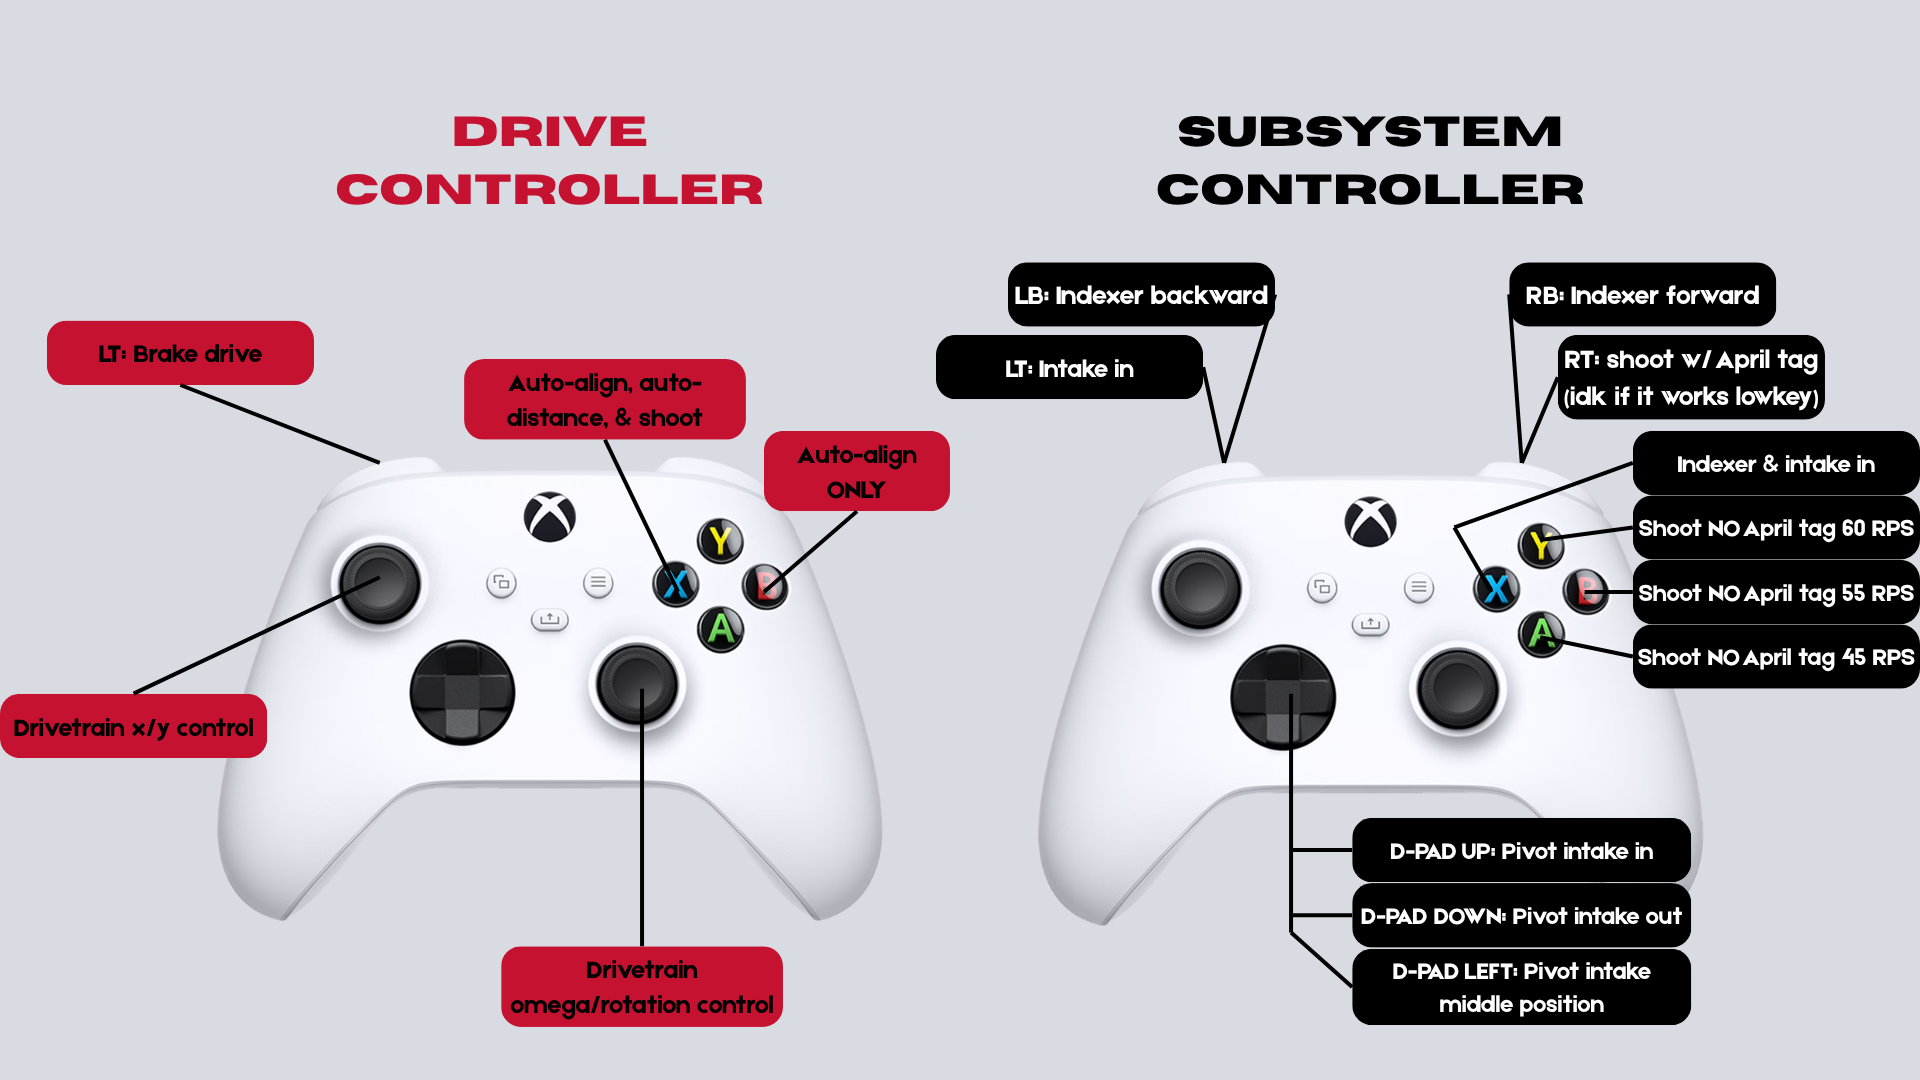
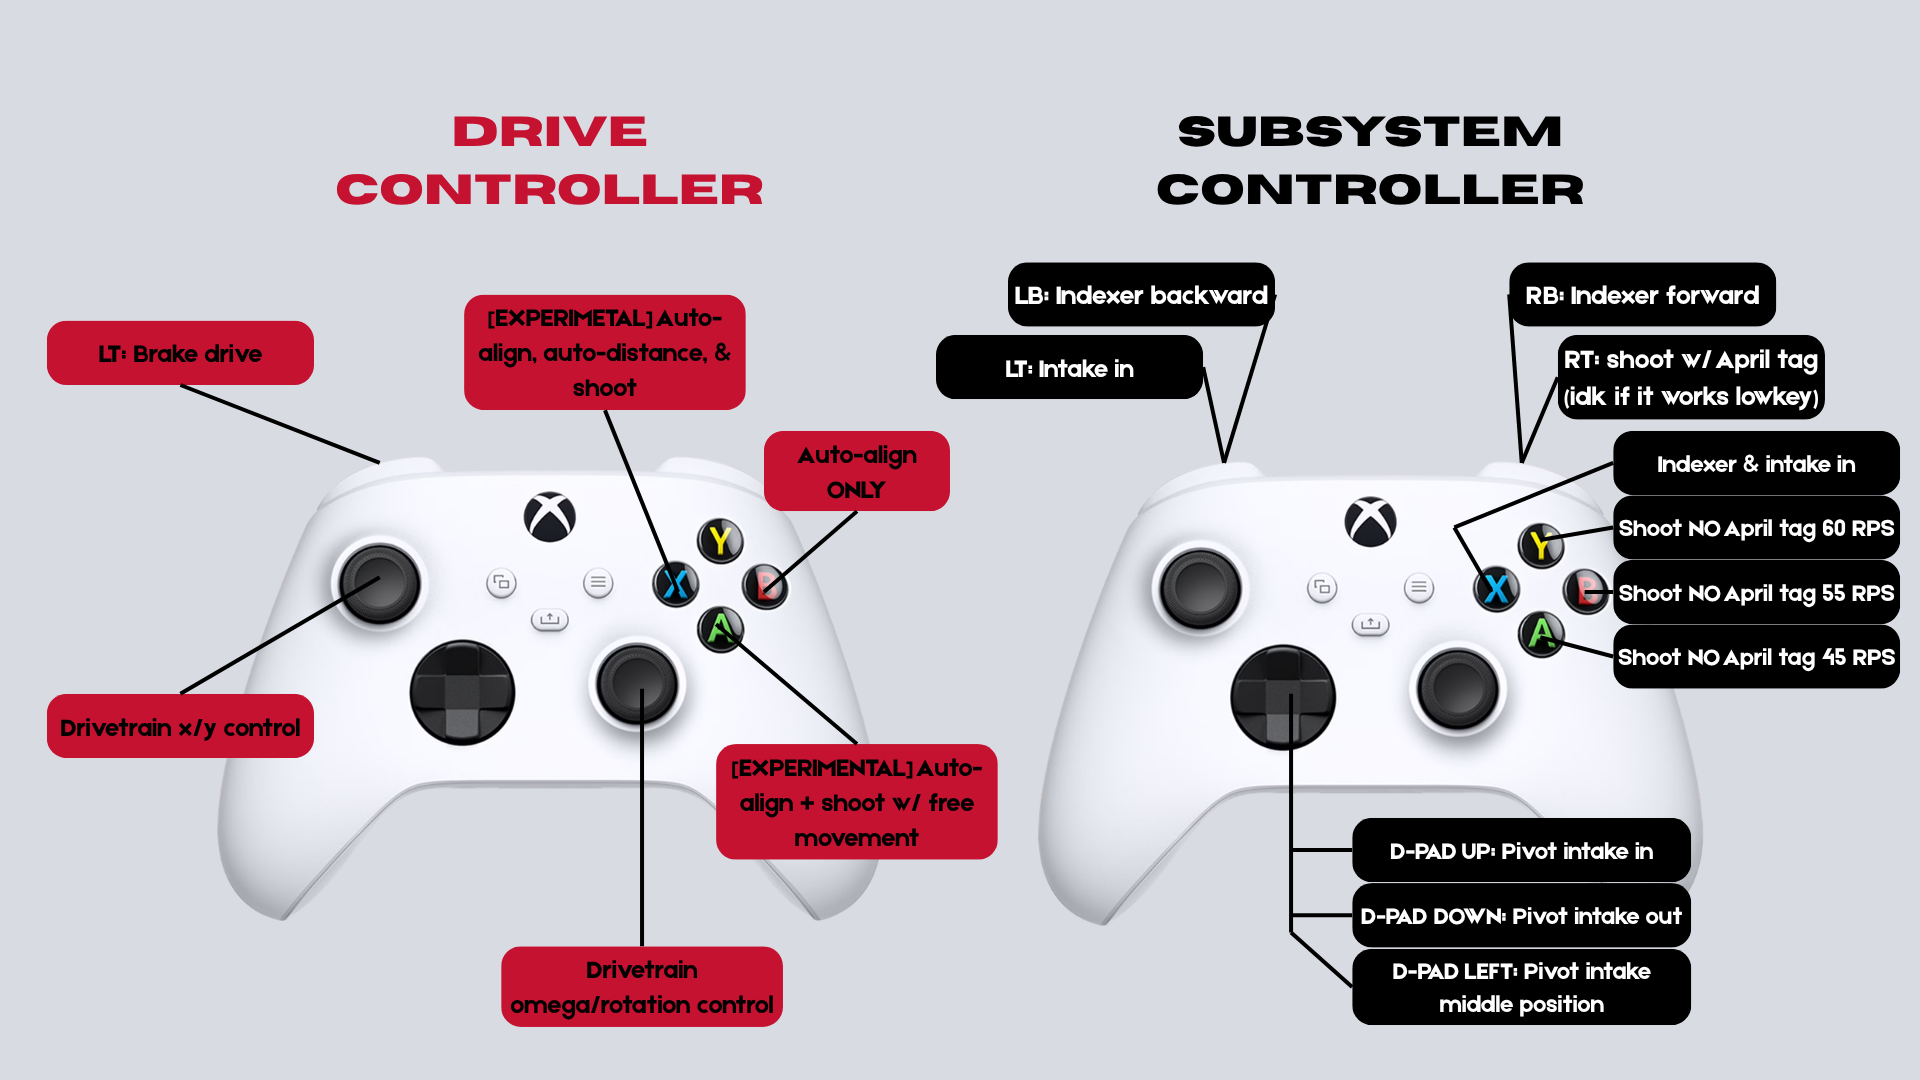
Updated LEDs and controller bindings

diff --git a/REBUILT-2026/src/main/java/frc/robot/subsystems/SwerveDrivebase.java b/REBUILT-2026/src/main/java/frc/robot/subsystems/SwerveDrivebase.java
@@ -5,6 +5,7 @@
 package frc.robot.subsystems;
 
 import java.util.function.Supplier;
+import java.util.spi.CalendarNameProvider;
 
 import com.pathplanner.lib.auto.AutoBuilder;
 import com.pathplanner.lib.commands.PathPlannerAuto;
@@ -465,7 +466,7 @@ public class SwerveDrivebase extends SubsystemBase {
   //#region
 
   /** Auto-align to a certain point on the field using odometry */
-  public Command odometryAutoAlign(Translation2d m_targetPoint, Supplier<Double> i_vxInput, Supplier<Double> i_vyInput, boolean stop) {
+  public Command odometryAutoAlign(Translation2d m_targetPoint, Supplier<Double> i_vxInput, Supplier<Double> i_vyInput) {
     return new FunctionalCommand(
       () -> {
         // compacted math of below to set the current position and target before command runs
@@ -490,14 +491,179 @@ public class SwerveDrivebase extends SubsystemBase {
         // The only time it shouldn't is when the robot is too close to the target and break the math
         double distance = m_targetPoint.getDistance(fieldLocation);
         this.drive(
-          -i_vxInput.get() * SwerveConstants.kMaxMetersPerSecond * ((stop) ? 0.0 : 1.0), // if the robot needs to stop at the end, ignore joystick input
-          -i_vyInput.get() * SwerveConstants.kMaxMetersPerSecond * ((stop) ? 0.0 : 1.0),
+          -i_vxInput.get() * SwerveConstants.kMaxMetersPerSecond, 
+          -i_vyInput.get() * SwerveConstants.kMaxMetersPerSecond,
           (distance > 0.5) ? pidOutput : 0.0,
           true
         );
       }, 
       (interrupted) -> {}, // no need to stop the robot if the command ends prematurely because the default command covers it 
-      () -> m_autoAlignPID.atGoal() && stop, 
+      () -> false, 
+      this
+    );
+  }
+
+  /** Overload that ignores joystick input and will terminate at the end for the next command */
+  public Command odometryAutoAlign(Translation2d m_targetPoint) {
+    return new FunctionalCommand(
+      () -> {
+        // compacted math of below to set the current position and target before command runs
+        Pose2d position = getPose();
+        Rotation2d targetHeading = m_targetPoint.minus(position.getTranslation()).getAngle();
+        m_autoAlignPID.reset(position.getRotation().getRadians());
+        m_autoAlignPID.setGoal(targetHeading.getRadians()); // this does not need to be run constantly when stop is false (tested)
+      },
+      () -> {
+        // First part - calculate dynamic heading
+        Pose2d position = getPose();
+        Translation2d fieldLocation = position.getTranslation();
+        Translation2d vectorBetweenPoints = m_targetPoint.minus(fieldLocation);
+        Rotation2d dynamicHeading = vectorBetweenPoints.getAngle();
+
+        // Second part - convert dynamic heading to be suitable with the drive method
+        Rotation2d currentHeading = position.getRotation();
+        double pidOutput = m_autoAlignPID.calculate(currentHeading.getRadians(), dynamicHeading.getRadians());
+        pidOutput = MathUtil.clamp(pidOutput, -SwerveConstants.kMaxAngularSpeed, SwerveConstants.kMaxAngularSpeed);
+
+        // Third part - Run drive command and stop alignment when needed
+        // The only time it shouldn't is when the robot is too close to the target and break the math
+        double distance = m_targetPoint.getDistance(fieldLocation);
+        this.drive(
+          0.0, // if the robot needs to stop at the end, do not move 
+          0.0,
+          (distance > 0.5) ? pidOutput : 0.0,
+          true
+        );
+      }, 
+      (interrupted) -> drive(0.0, 0.0, 0.0, true), 
+      () -> m_autoAlignPID.atGoal(), 
+      this
+    );
+  }
+
+  /** Overload of the original command so that the target can change dynamically instead of being set when initially called */
+  public Command odometryAutoAlign(Supplier<Translation2d> m_targetPoint, Supplier<Double> i_vxInput, Supplier<Double> i_vyInput) {
+    return new FunctionalCommand(
+      () -> {
+        // compacted math of below to set the current position and target before command runs
+        Translation2d targetPoint = m_targetPoint.get();
+        Pose2d position = getPose();
+        Rotation2d targetHeading = targetPoint.minus(position.getTranslation()).getAngle();
+        m_autoAlignPID.reset(position.getRotation().getRadians());
+        m_autoAlignPID.setGoal(targetHeading.getRadians()); // this does not need to be run constantly when stop is false (tested)
+      },
+      () -> {
+        // First part - calculate dynamic heading
+        Translation2d targetPoint = m_targetPoint.get();
+        Pose2d position = getPose();
+        Translation2d fieldLocation = position.getTranslation();
+        Translation2d vectorBetweenPoints = targetPoint.minus(fieldLocation);
+        Rotation2d dynamicHeading = vectorBetweenPoints.getAngle();
+
+        // Second part - convert dynamic heading to be suitable with the drive method
+        Rotation2d currentHeading = position.getRotation();
+        double pidOutput = m_autoAlignPID.calculate(currentHeading.getRadians(), dynamicHeading.getRadians());
+        pidOutput = MathUtil.clamp(pidOutput, -SwerveConstants.kMaxAngularSpeed, SwerveConstants.kMaxAngularSpeed);
+
+        // Third part - Run drive command and stop alignment when needed
+        // The only time it shouldn't is when the robot is too close to the target and break the math
+        double distance = targetPoint.getDistance(fieldLocation);
+        this.drive(
+          -i_vxInput.get() * SwerveConstants.kMaxMetersPerSecond, // if the robot needs to stop at the end, ignore joystick input
+          -i_vyInput.get() * SwerveConstants.kMaxMetersPerSecond,
+          (distance > 0.5) ? pidOutput : 0.0,
+          true
+        );
+      }, 
+      (interrupted) -> {}, // no need to stop the robot if the command ends prematurely because the default command covers it 
+      () -> false, 
+      this
+    );
+  }
+
+  /** Overload that ignores joystick input and will terminate at the end for the next command */
+  public Command odometryAutoAlign(Supplier<Translation2d> m_targetPoint) {
+    return new FunctionalCommand(
+      () -> {
+        // compacted math of below to set the current position and target before command runs
+        Translation2d targetPoint = m_targetPoint.get();
+        Pose2d position = getPose();
+        Rotation2d targetHeading = targetPoint.minus(position.getTranslation()).getAngle();
+        m_autoAlignPID.reset(position.getRotation().getRadians());
+        m_autoAlignPID.setGoal(targetHeading.getRadians()); // this does not need to be run constantly when stop is false (tested)
+      },
+      () -> {
+        // First part - calculate dynamic heading
+        Translation2d targetPoint = m_targetPoint.get();
+        Pose2d position = getPose();
+        Translation2d fieldLocation = position.getTranslation();
+        Translation2d vectorBetweenPoints = targetPoint.minus(fieldLocation);
+        Rotation2d dynamicHeading = vectorBetweenPoints.getAngle();
+
+        // Second part - convert dynamic heading to be suitable with the drive method
+        Rotation2d currentHeading = position.getRotation();
+        double pidOutput = m_autoAlignPID.calculate(currentHeading.getRadians(), dynamicHeading.getRadians());
+        pidOutput = MathUtil.clamp(pidOutput, -SwerveConstants.kMaxAngularSpeed, SwerveConstants.kMaxAngularSpeed);
+
+        // Third part - Run drive command and stop alignment when needed
+        // The only time it shouldn't is when the robot is too close to the target and break the math
+        double distance = targetPoint.getDistance(fieldLocation);
+        this.drive(
+          0.0, // if the robot needs to stop at the end, do not move
+          0.0,
+          (distance > 0.5) ? pidOutput : 0.0,
+          true
+        );
+      }, 
+      (interrupted) -> drive(0.0, 0.0, 0.0, true), 
+      () -> m_autoAlignPID.atGoal(), 
+      this
+    );
+  }
+
+  /** Special overload that allows for a shooter to run in parallel accurately */
+  public Command odometryAutoAlign(Supplier<Translation2d> m_targetPoint, Supplier<Double> i_vxInput, Supplier<Double> i_vyInput, boolean isShooterInParallel) {
+    return new FunctionalCommand(
+      () -> {
+        // compacted math of below to set the current position and target before command runs
+        Translation2d targetPoint = m_targetPoint.get();
+        Pose2d position = getPose();
+        Rotation2d targetHeading = targetPoint.minus(position.getTranslation()).getAngle();
+        m_autoAlignPID.reset(position.getRotation().getRadians());
+        m_autoAlignPID.setGoal(targetHeading.getRadians()); // this does not need to be run constantly when stop is false (tested)
+      },
+      () -> {
+        // First part - calculate dynamic heading
+        Translation2d targetPoint = m_targetPoint.get();
+        Pose2d position = getPose();
+        Translation2d fieldLocation = position.getTranslation();
+        Translation2d vectorBetweenPoints = targetPoint.minus(fieldLocation);
+        Rotation2d dynamicHeading = vectorBetweenPoints.getAngle();
+
+        // Second part - convert dynamic heading to be suitable with the drive method
+        Rotation2d currentHeading = position.getRotation();
+        double pidOutput = m_autoAlignPID.calculate(currentHeading.getRadians(), dynamicHeading.getRadians());
+        pidOutput = MathUtil.clamp(pidOutput, -SwerveConstants.kMaxAngularSpeed, SwerveConstants.kMaxAngularSpeed);
+
+        // Third part - Run drive command and stop alignment when needed
+        // The only time it shouldn't is when the robot is too close to the target and break the math
+        double distance = targetPoint.getDistance(fieldLocation);
+        double xInput = -i_vxInput.get() * SwerveConstants.kMaxMetersPerSecond; 
+        double yInput = -i_vyInput.get() * SwerveConstants.kMaxMetersPerSecond;
+        if (isShooterInParallel) {
+          // scale down the max joystick value if a shooter is running in parallel so it can shoot accurately
+          xInput *= 0.2;
+          yInput *= 0.2;
+        }
+        this.drive(
+          xInput,
+          yInput,
+          (distance > 0.5) ? pidOutput : 0.0,
+          true
+        );
+      }, 
+      (interrupted) -> {}, // no need to stop the robot if the command ends prematurely because the default command covers it 
+      () -> false, 
       this
     );
   }
@@ -530,46 +696,6 @@ public class SwerveDrivebase extends SubsystemBase {
       }, 
       (interrupted) -> drive(0.0, 0.0, 0.0, true), 
       () -> m_autoDistancePID.atGoal() && stop, 
-      this
-    );
-  }
-
-  /** Overload of the original command so that the target can change dynamically instead of being set when initially called */
-  public Command odometryAutoAlign(Supplier<Translation2d> m_targetPoint, Supplier<Double> i_vxInput, Supplier<Double> i_vyInput, boolean stop) {
-    return new FunctionalCommand(
-      () -> {
-        // compacted math of below to set the current position and target before command runs
-        Translation2d targetPoint = m_targetPoint.get();
-        Pose2d position = getPose();
-        Rotation2d targetHeading = targetPoint.minus(position.getTranslation()).getAngle();
-        m_autoAlignPID.reset(position.getRotation().getRadians());
-        m_autoAlignPID.setGoal(targetHeading.getRadians()); // this does not need to be run constantly when stop is false (tested)
-      },
-      () -> {
-        // First part - calculate dynamic heading
-        Translation2d targetPoint = m_targetPoint.get();
-        Pose2d position = getPose();
-        Translation2d fieldLocation = position.getTranslation();
-        Translation2d vectorBetweenPoints = targetPoint.minus(fieldLocation);
-        Rotation2d dynamicHeading = vectorBetweenPoints.getAngle();
-
-        // Second part - convert dynamic heading to be suitable with the drive method
-        Rotation2d currentHeading = position.getRotation();
-        double pidOutput = m_autoAlignPID.calculate(currentHeading.getRadians(), dynamicHeading.getRadians());
-        pidOutput = MathUtil.clamp(pidOutput, -SwerveConstants.kMaxAngularSpeed, SwerveConstants.kMaxAngularSpeed);
-
-        // Third part - Run drive command and stop alignment when needed
-        // The only time it shouldn't is when the robot is too close to the target and break the math
-        double distance = targetPoint.getDistance(fieldLocation);
-        this.drive(
-          -i_vxInput.get() * SwerveConstants.kMaxMetersPerSecond * ((stop) ? 0.0 : 1.0), // if the robot needs to stop at the end, ignore joystick input
-          -i_vyInput.get() * SwerveConstants.kMaxMetersPerSecond * ((stop) ? 0.0 : 1.0),
-          (distance > 0.5) ? pidOutput : 0.0,
-          true
-        );
-      }, 
-      (interrupted) -> {}, // no need to stop the robot if the command ends prematurely because the default command covers it 
-      () -> m_autoAlignPID.atGoal() && stop, 
       this
     );
   }
@@ -608,6 +734,7 @@ public class SwerveDrivebase extends SubsystemBase {
     );
   }
 
+  /** Checks if the auto-align command is aligned */
   public boolean isAutoAligned() {
     return m_autoAlignPID.atGoal();
   }

diff --git a/REBUILT-2026/src/main/java/frc/robot/subsystems/LEDLights.java b/REBUILT-2026/src/main/java/frc/robot/subsystems/LEDLights.java
@@ -4,6 +4,8 @@
 
 package frc.robot.subsystems;
 
+import java.util.function.Supplier;
+
 import com.ctre.phoenix6.controls.ControlRequest;
 import com.ctre.phoenix6.controls.EmptyAnimation;
 import com.ctre.phoenix6.controls.FireAnimation;
@@ -13,6 +15,7 @@ import com.ctre.phoenix6.controls.TwinkleAnimation;
 import com.ctre.phoenix6.hardware.CANdle;
 import com.ctre.phoenix6.signals.RGBWColor;
 
+import edu.wpi.first.math.geometry.Translation2d;
 import edu.wpi.first.wpilibj2.command.Command;
 import edu.wpi.first.wpilibj2.command.RunCommand;
 import edu.wpi.first.wpilibj2.command.SubsystemBase;
@@ -31,7 +34,7 @@ public class LEDLights extends SubsystemBase {
   public enum LEDMode {
     Off (new EmptyAnimation(0)),
     SeesAprilTag (new TwinkleAnimation(0, CANdleConstants.kLedCount - 1).withColor(new RGBWColor(255,0,0))),
-    AlignedToApriLTag (new SolidColor(0, CANdleConstants.kLedCount -1).withColor(new RGBWColor(0, 255, 0))),  
+    AlignedToTarget (new SolidColor(0, CANdleConstants.kLedCount -1).withColor(new RGBWColor(0, 255, 0))),  
     Intaking (new TwinkleAnimation(0, CANdleConstants.kLedCount - 1).withColor(new RGBWColor(255,115,0)));
 
     public final ControlRequest animation;
@@ -44,11 +47,14 @@ public class LEDLights extends SubsystemBase {
   private final CANdle m_CANdle = new CANdle(CANdleConstants.kCANdleID, CANdleConstants.kCanbusName);
   private LEDMode currentMode = LEDMode.Off;
   private Shooter m_shooter;
+  private SwerveDrivebase m_drivebase = SwerveDrivebase.getInstance();
+  private Supplier<Translation2d> shooterTarget;
   
 
 
-  public LEDLights(Shooter i_shooter) {
+  public LEDLights(Shooter i_shooter, Supplier<Translation2d> i_shooterTarget) {
     this.m_shooter = i_shooter;
+    this.shooterTarget = i_shooterTarget;
     m_CANdle.getConfigurator().apply(CANdleConfigs.CANdleConfigs);
   }
 
@@ -70,18 +76,19 @@ public class LEDLights extends SubsystemBase {
   @Override
   public void periodic() {
 
-    boolean seeAT = LimelightHelpers.getTV(LimelightConstants.limelightName); //checks if the april tag is visible
-    boolean centerAT = Math.abs(LimelightHelpers.getTX(LimelightConstants.limelightName)) < 1; //checks if it is aligned
-    boolean inRange = m_shooter.getDistance() < ShooterConstants.kMinShooterRange; //not in deadzone
+    boolean isAprilTagSeen = LimelightHelpers.getTV(LimelightConstants.limelightName); //checks if the april tag is visible
+    boolean isAutoAligned = m_drivebase.isAutoAligned(); //checks if it is aligned
+    double distance = m_shooter.getDistance(m_drivebase.getPose(), shooterTarget.get());
+    boolean isInRange = distance >= ShooterConstants.kMinShooterRange && distance <= ShooterConstants.kMaxShooterRange; //not in deadzone
 
-    if (!seeAT) {
+    if (!isAprilTagSeen || !isInRange) {
       currentMode = LEDMode.Off;
-    } else if (!inRange) {
-      currentMode = LEDMode.Off;
-    } else if (!centerAT) {
-      currentMode = LEDMode.SeesAprilTag;
     } else {
-      currentMode = LEDMode.AlignedToApriLTag;
+      if (!isAutoAligned) {
+        currentMode = LEDMode.SeesAprilTag;
+      } else {
+        currentMode = LEDMode.AlignedToTarget;
+      }
     }
 
     m_CANdle.setControl(currentMode.animation);

diff --git a/REBUILT-2026/src/main/java/frc/robot/RobotContainer.java b/REBUILT-2026/src/main/java/frc/robot/RobotContainer.java
@@ -32,7 +32,7 @@ public class RobotContainer {
   Shooter m_shooter = new Shooter();
   Intake m_intake = new Intake();
   Indexer m_indexer = new Indexer();
-  LEDLights m_lights = new LEDLights(m_shooter);
+  LEDLights m_lights = new LEDLights(m_shooter, getAllianceHubLocation());
   
   private final SendableChooser<Command> m_autoChooser = new SendableChooser<>();
 
@@ -95,17 +95,12 @@ public class RobotContainer {
       getJoystickValues(m_driveController::getRightX, omega_limiter), 
       () -> true));
 
-    // auto-align, auto distance, and shoot - x
+    // auto-align, auto distance, and shoot - x [EXPERIMENTAL]
     m_driveController.x().whileTrue(
       new SequentialCommandGroup(
         Commands.deadline(
           new SequentialCommandGroup(
-            m_drivebase.odometryAutoAlign(
-              getAllianceHubLocation(), 
-              getJoystickValues(m_driveController::getLeftY, vx_limiter), // joystick input does nothing lol
-              getJoystickValues(m_driveController::getLeftX, vy_limiter), // cause stop makes it ignored
-              true
-            ),
+            m_drivebase.odometryAutoAlign(getAllianceHubLocation()),
             m_drivebase.odometryAutoDistance(getAllianceHubLocation(), true)
           ),
           m_shooter.WarmUpShooter(m_shooter.getDynamicRPS(m_drivebase.getPoseSupplier(), getAllianceHubLocation())) // warm up the upper rollers ahead of time
@@ -129,7 +124,7 @@ public class RobotContainer {
           getAllianceHubLocation(), 
           getJoystickValues(m_driveController::getLeftY, vx_limiter),
           getJoystickValues(m_driveController::getLeftX, vy_limiter),
-          false
+          true
         ),
         Commands.either(
           m_shooter.ShootWithoutAprilTagCommand(m_shooter.getDynamicRPS(m_drivebase.getPoseSupplier(), getAllianceHubLocation())), 
@@ -151,8 +146,7 @@ public class RobotContainer {
       m_drivebase.odometryAutoAlign(
         getAllianceHubLocation(),
         getJoystickValues(m_driveController::getLeftY, vx_limiter), 
-        getJoystickValues(m_driveController::getLeftX, vy_limiter), 
-        false
+        getJoystickValues(m_driveController::getLeftX, vy_limiter)
         )
     );
 

diff --git a/README.md b/README.md
@@ -24,11 +24,13 @@ Please test my code and don't trust it blindly...
 
 * Includes 2 Translation2d objects that allow the odometry-alignment commands to point to either hub depending on the alliance
 * Includes 9 autos designed in PathPlanner
-    * No movement but still updates the starting pose for odometry [L/M/R]
+    * No movement but still updates the starting pose for odometry [L/M/R] (Emergency stop equivalent)
     * Only shoot the preloaded fuel [L/M/R]
     * Shoot the preloaded fuel and collect from the neutral zone [L/R]
     * Collect fuel from the outpost and shoot [R]
 
 ## Controls
 
-<img src="/image-assets/bindings.png" width="700">
+<div align="center">
+    <img src="/image-assets/bindings.png" width="800">
+</div>
